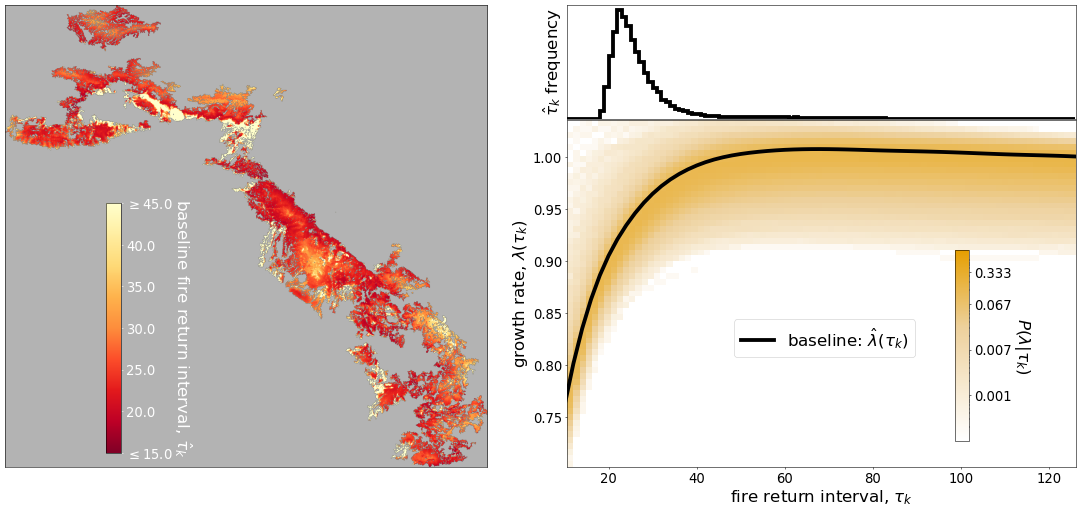
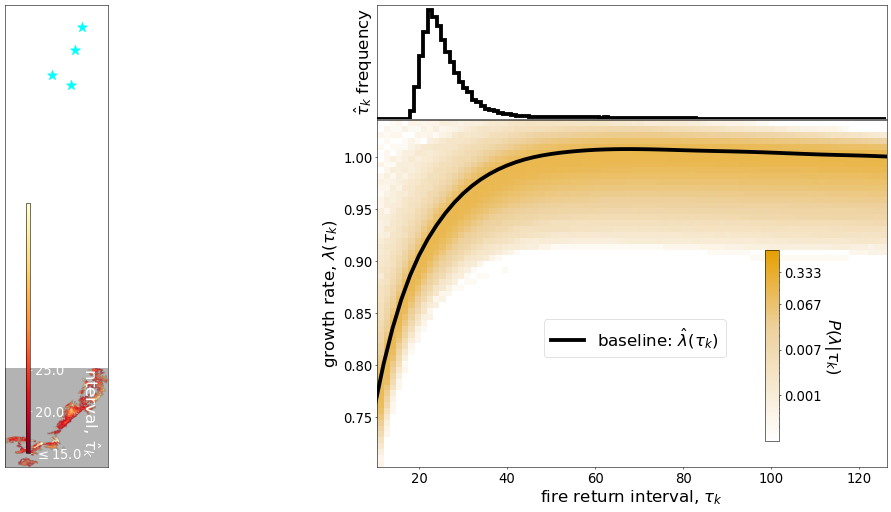
Working on city markers

diff --git a/sensitivity/make_figures.py b/sensitivity/make_figures.py
@@ -7,6 +7,7 @@ from matplotlib.patches import Patch
 import matplotlib as mpl
 import matplotlib.ticker as mticker
 from mpl_toolkits.axes_grid1.inset_locator import inset_axes
+from pyproj import Transformer
 import pickle
 import h5py
 from scipy.special import gamma
@@ -77,8 +78,45 @@ nonzero_indices = np.nonzero(pproc.maps_filt)
 row_min, row_max = nonzero_indices[0].min(), nonzero_indices[0].max()
 col_min, col_max = nonzero_indices[1].min(), nonzero_indices[1].max()
 colored_data = colored_data[row_min:row_max + 1, col_min:col_max + 1]
+print((row_min, row_max), (col_min, col_max))
+print((pproc.ul_coord[1], pproc.lr_coord[1]), (pproc.ul_coord[0], pproc.lr_coord[0]))
 
-im1 = ax1.imshow(colored_data)
+# Hardcode some things from map (.asc)  headers
+cellsize  = 270.0
+xllcorner = -373955.8364 + pproc.ul_coord[0] * cellsize
+yllcorner = -604543.3342 + pproc.ul_coord[1] * cellsize
+
+# Get extent to use coordinates with imshow
+print(colored_data.shape, (row_max-row_min, col_max-col_min))
+extent = [
+    xllcorner + col_min * cellsize,           # left
+    xllcorner + (col_max + 1) * cellsize,           # right
+    yllcorner + (row_max + 1) * cellsize,           # bottom
+    yllcorner + row_min * cellsize,           # top
+]
+
+# Latitude and longitude (WGS84)
+cities = {
+    "Riverside": (-117.3962, 33.9533),
+    "Santa Ana": (-117.8677, 33.7455),
+    "San Diego": (-117.161087, 32.715736),
+    "Oceanside": (-117.325836, 33.211666),
+}
+transformer = Transformer.from_crs("EPSG:4326", "EPSG:3310", always_xy=True)
+
+# Convert to map coordinates
+x_cities, y_cities, names = [], [], []
+for name, (lon, lat) in cities.items():
+    x, y = transformer.transform(lon, lat)
+    x_cities.append(x)
+    y_cities.append(y)
+    names.append(name)
+
+#im1 = ax1.imshow(colored_data)
+im1 = ax1.imshow(colored_data, extent=extent, origin='upper')
+
+ax1.scatter(x_cities, y_cities, color='cyan', marker='*', s=220, zorder=3)
+
 # Add the colorbar to inset axis
 cbar_ax = inset_axes(ax1, width="5%", height="60%", loc='center',
                      bbox_to_anchor=(-0.1, -0.15, 0.65, 0.9),  # Centered on the plot,
@@ -487,6 +525,7 @@ tau_sorted = pproc.tau_flat[pproc.tau_argsort_ref]
 mapindices = np.argwhere(pproc.maps_filt)
 
 q_vec = np.arange(0.0, 1.0, 0.05)
+#q_vec = np.arange(0.0, 1.0, 0.025)
 delta_taul_interp = np.full(q_vec.size, np.nan)
 delta_tauh_interp = np.full(q_vec.size, np.nan)
 taul_interp = np.full(q_vec.size, np.nan)
